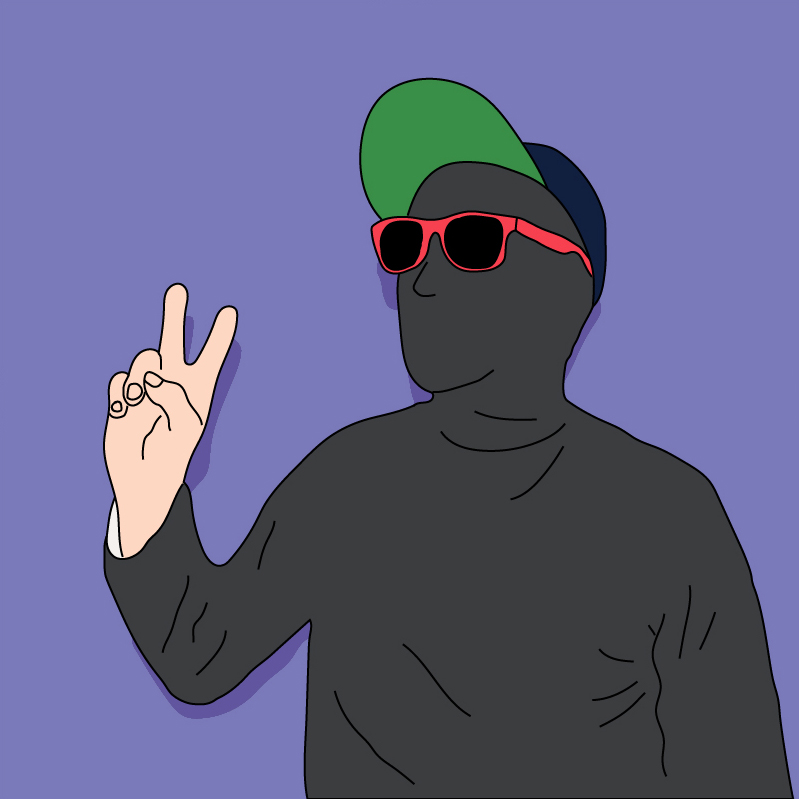
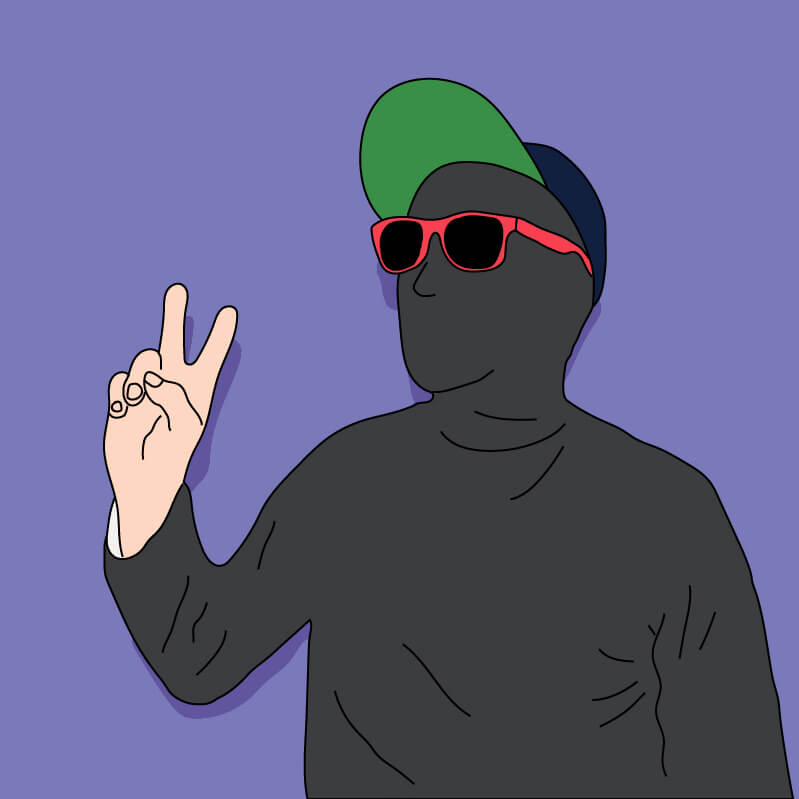
chore: optimized images

diff --git a/src/data/ProjectsInfo.js b/src/data/ProjectsInfo.js
@@ -1,49 +1,49 @@
 const projects = [
   {
     name: "Pachinko Builder",
-    image: "/portfolio_v2/assets/images/tiles/pachinkoBuilder.png",
+    image: "/portfolio_v2/assets/images/tiles/pachinkoBuilder.jpg",
     description: "This was a project I submitted for the 'Made with Defold 2023' game jam. This jam lasted seven days in total, and the rules stated that submissions must be made with the Defold game engine. This was a challenging experience for me because I had never used Defold before that point, nor did I have any knowledge about Lua, which is what Defold used as its programming language.",
     tags: ["Lua", "Time management", "Defold"],
     link: "https://toastedthomas.itch.io/pachinko-builder"
   },
   {
     name: "Better Exchange",
-    image: "/portfolio_v2/assets/images/tiles/betterExchange.png",
+    image: "/portfolio_v2/assets/images/tiles/betterExchange.jpg",
     description: "Better Exchange is a web application that uses the official Runescape Wiki API to grab information about any item listed on the Grand Exchange. This program provides up to date prices on items, daily volumes, alchemy values, and much more. The application also calculates the potential profits that could be made from various activities in game such as cooking or fletching.",
     tags: ["APIs", "JavaScript", "HTML"],
     link: "https://toastedthomas.github.io/BetterExchange"
   },
   {
     name: "Crop Clicker",
-    image: "/portfolio_v2/assets/images/tiles/cropClicker.png",
+    image: "/portfolio_v2/assets/images/tiles/cropClicker.jfif",
     description: "This was my first project I began work on while I taught myself programming. Crop clicker is a web browser game that is heavily inspired from Cookie Clicker by Orteil. I used this project as a way to build on my HTML, CSS, and JavaScript knowledge, as well as to learn other skills such as launching, updating, and bug fixing a live website. I also made all the art and sound for this project myself.",
     tags: ["JavaScript", "CSS", "Git", "Adobe Photoshop"],
     link: "https://toastedthomas.github.io/CropClicker/"
   },
   {
     name: "Falling Sand",
-    image: "/portfolio_v2/assets/images/tiles/fallingSand.png",
+    image: "/portfolio_v2/assets/images/tiles/fallingSand.jpg",
     description: "Falling Sand is a simulator of exactly what it says, falling sand. This project was meant to refine my skills as a JavaScript developer, making me think logically and creatively.",
     tags: ["JavaScript", "HTML", "Canvas"],
     link: "https://toastedthomas.github.io/Falling-Sand/"
   },
   {
     name: "Sample Survey",
-    image: "/portfolio_v2/assets/images/tiles/sampleSurvey.png",
+    image: "/portfolio_v2/assets/images/tiles/sampleSurvey.jpg",
     description: "This is a basic survey that showcases some of my skills I learned while taking the 'Responsive Web Design' course at freeCodeCamp.",
     tags: ["CSS", "WCAG", "HTML"],
     link: "https://toastedthomas.github.io/Sample-Survey/"
   },
   {
     name: "Dice Roller",
-    image: "/portfolio_v2/assets/images/tiles/diceRoller.png",
+    image: "/portfolio_v2/assets/images/tiles/diceRoller.jpg",
     description: "I originally started this project to mess around with arrays and random number generation. As time went on I added multiple dice types and dice statistics. My goal with this project is to add more customization options and features while keeping this tool lightweight and fast. During experimental testing, I was able to roll 250,000 dice at once!",
     tags: ["JavaScript", "CSS", "HTML"],
     link: "https://toastedthomas.github.io/Dice-Roller-Js/"
   },
   {
     name: "PokeInfo",
-    image: "/portfolio_v2/assets/images/tiles/pokeInfo.png",
+    image: "/portfolio_v2/assets/images/tiles/pokeInfo.jpg",
     description: "This project was my introduction to working with APIs and working with other peoples documentation. My goal was to take in data from the PokeAPI database and display the information in an easy to understand format. Reading and fully understanding someone else's code is a very important skill to have, and working on this project helped refine that skill for me.",
     tags: ["APIs", "JavaScript", "CSS"],
     link: "https://toastedthomas.github.io/PokeInfo/"

diff --git a/src/data/ArtInfo.js b/src/data/ArtInfo.js
@@ -1,6 +1,6 @@
 const art = [
   {
-    image: "/portfolio_v2/assets/images/art/blenderDonut.png",
+    image: "/portfolio_v2/assets/images/art/blenderDonut.jpg",
     description: "A render of a donut and coffee using Blender."
   },
   {
